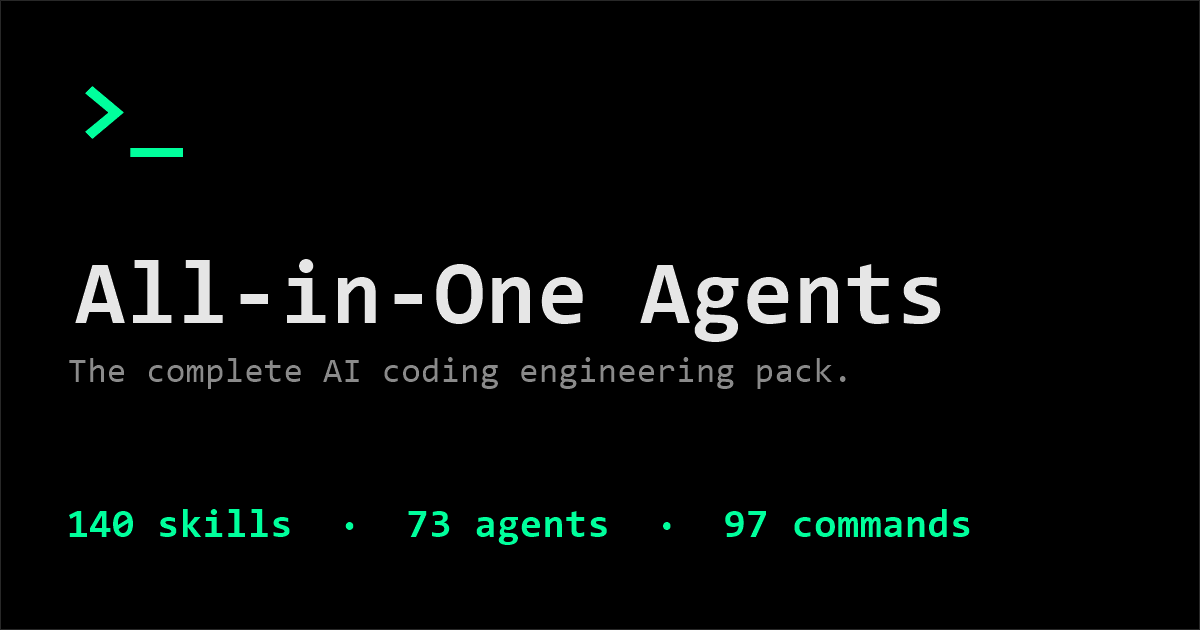
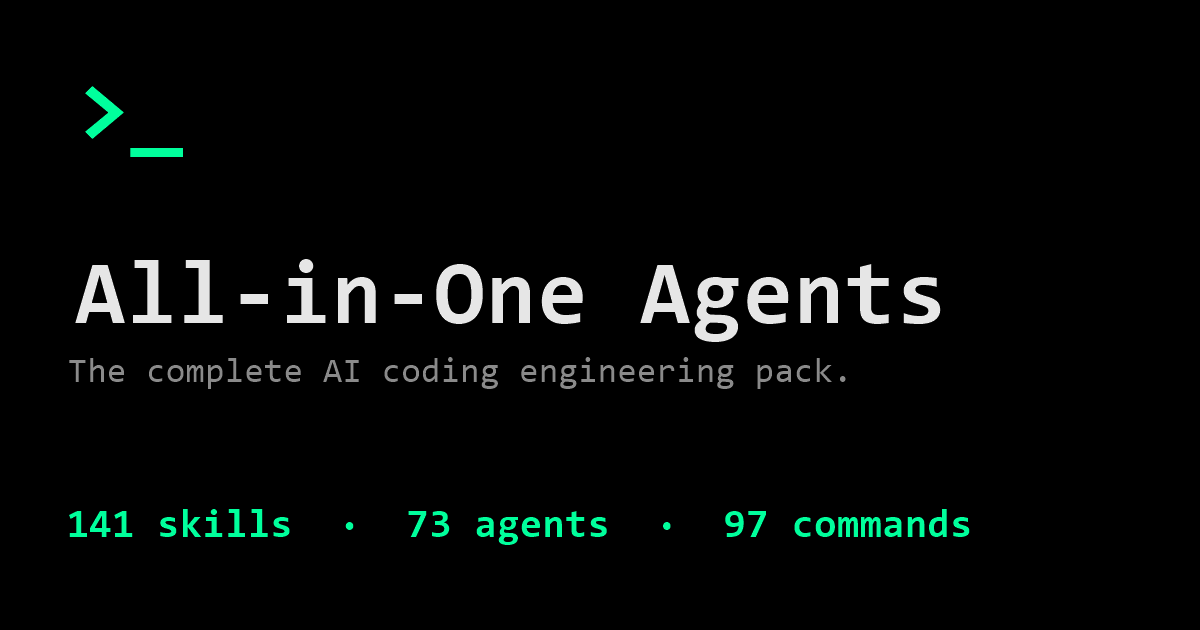
Add computer-use skill

Changed region(s): [[0.0, 0.9952, 1.0, 1.0], [0.9867, 0.0, 1.0, 0.0302], [0.0925, 0.8143, 0.1233, 0.8444]]

diff --git a/docs/index.html b/docs/index.html
@@ -4,11 +4,11 @@
   <meta charset="UTF-8">
   <meta name="viewport" content="width=device-width, initial-scale=1.0">
   <title>All-in-One Agents — The complete AI coding engineering pack</title>
-  <meta name="description" content="140 skills, 73 agents, 97 commands. From idea to production with UNDERSTAND→PLAN→EXECUTE→VERIFY→DELIVER. Open source on GitHub.">
+  <meta name="description" content="141 skills, 73 agents, 97 commands. From idea to production with UNDERSTAND→PLAN→EXECUTE→VERIFY→DELIVER. Open source on GitHub.">
 
   <!-- Open Graph -->
   <meta property="og:title" content="All-in-One Agents — The complete AI coding engineering pack">
-  <meta property="og:description" content="140 skills, 73 agents, 97 commands. One engineering loop: UNDERSTAND→PLAN→EXECUTE→VERIFY→DELIVER.">
+  <meta property="og:description" content="141 skills, 73 agents, 97 commands. One engineering loop: UNDERSTAND→PLAN→EXECUTE→VERIFY→DELIVER.">
   <meta property="og:image" content="https://ibrorg.github.io/all-in-one-agents/assets/og-image.png">
   <meta property="og:url" content="https://ibrorg.github.io/all-in-one-agents/">
   <meta property="og:type" content="website">
@@ -16,7 +16,7 @@
   <!-- Twitter Card -->
   <meta name="twitter:card" content="summary_large_image">
   <meta name="twitter:title" content="All-in-One Agents — The complete AI coding engineering pack">
-  <meta name="twitter:description" content="140 skills, 73 agents, 97 commands. One engineering loop: UNDERSTAND→PLAN→EXECUTE→VERIFY→DELIVER.">
+  <meta name="twitter:description" content="141 skills, 73 agents, 97 commands. One engineering loop: UNDERSTAND→PLAN→EXECUTE→VERIFY→DELIVER.">
   <meta name="twitter:image" content="https://ibrorg.github.io/all-in-one-agents/assets/og-image.png">
 
   <link rel="icon" type="image/svg+xml" href="assets/favicon.svg">
@@ -41,7 +41,7 @@
     "@context": "https://schema.org",
     "@type": "SoftwareApplication",
     "name": "All-in-One Agents",
-    "description": "The complete AI coding engineering pack: 140 skills, 73 agents, 97 commands, and an engineering loop from UNDERSTAND to DELIVER.",
+    "description": "The complete AI coding engineering pack: 141 skills, 73 agents, 97 commands, and an engineering loop from UNDERSTAND to DELIVER.",
     "operatingSystem": "Cross-platform",
     "applicationCategory": "DeveloperApplication",
     "url": "https://github.com/ibrorg/all-in-one-agents",
@@ -119,7 +119,7 @@
         <p class="hero-pill mono"><span class="pulse-dot" aria-hidden="true"></span> v1.6.0 · latest release</p>
         <p class="hero-eyebrow mono" id="hero-eyebrow"><span class="accent">$</span> open-source · MIT · zero install friction</p>
         <h1>The complete AI coding engineering pack.<span class="blink accent">_</span></h1>
-        <p class="hero-sub">From idea to production, from legacy rescue to cost control — 140 skills, 73 agents, 97 commands, one engineering loop.</p>
+        <p class="hero-sub">From idea to production, from legacy rescue to cost control — 141 skills, 73 agents, 97 commands, one engineering loop.</p>
         <div class="hero-ctas">
           <a class="btn btn-primary mono" href="https://github.com/ibrorg/all-in-one-agents" target="_blank" rel="noopener">View on GitHub</a>
           <a class="btn btn-secondary mono" href="#install">Install</a>
@@ -138,12 +138,12 @@
 <span class="prompt">$ </span>cd all-in-one-agents
 <span class="prompt">$ </span>./install.sh claude --dry-run   <span class="comment"># preview</span>
 <span class="prompt">$ </span>./install.sh claude             <span class="comment"># install</span></code></pre>
-        <div class="terminal-status mono" aria-hidden="true"><span class="accent">✓</span> 140 skills&nbsp;&nbsp;<span class="accent">✓</span> 73 agents&nbsp;&nbsp;<span class="accent">✓</span> 97 commands</div>
+        <div class="terminal-status mono" aria-hidden="true"><span class="accent">✓</span> 141 skills&nbsp;&nbsp;<span class="accent">✓</span> 73 agents&nbsp;&nbsp;<span class="accent">✓</span> 97 commands</div>
       </div>
 
       <!-- UPDATE: re-count skills/agents/commands from INDEX.md on each release -->
       <div class="stats-strip" role="list">
-        <div class="stat" role="listitem"><span class="stat-num mono">140</span><span class="stat-label mono">skills</span></div>
+        <div class="stat" role="listitem"><span class="stat-num mono">141</span><span class="stat-label mono">skills</span></div>
         <div class="stat" role="listitem"><span class="stat-num mono">73</span><span class="stat-label mono">agents</span></div>
         <div class="stat" role="listitem"><span class="stat-num mono">97</span><span class="stat-label mono">commands</span></div>
         <div class="stat" role="listitem"><span class="stat-num mono">1</span><span class="stat-label mono">loop</span></div>
@@ -153,8 +153,8 @@
     <!-- skills marquee (decorative) -->
     <div class="ticker" aria-hidden="true">
       <div class="ticker-track mono">
-        <span>codebase-context</span><i>·</i><span>multi-file-editing</span><i>·</i><span>ast-aware-refactoring</span><i>·</i><span>api-migration</span><i>·</i><span>dependency-upgrades</span><i>·</i><span>performance-profiling</span><i>·</i><span>test-design</span><i>·</i><span>release-engineering</span><i>·</i><span>docs-accuracy</span><i>·</i><span>thinking-first-principles</span><i>·</i><span>wayfinder</span><i>·</i><span>code-review</span><i>·</i><span>receiving-code-review</span><i>·</i><span>agent-evaluation</span><i>·</i><span>checkpoint-recovery</span><i>·</i>
-        <span>codebase-context</span><i>·</i><span>multi-file-editing</span><i>·</i><span>ast-aware-refactoring</span><i>·</i><span>api-migration</span><i>·</i><span>dependency-upgrades</span><i>·</i><span>performance-profiling</span><i>·</i><span>test-design</span><i>·</i><span>release-engineering</span><i>·</i><span>docs-accuracy</span><i>·</i><span>thinking-first-principles</span><i>·</i><span>wayfinder</span><i>·</i><span>code-review</span><i>·</i><span>receiving-code-review</span><i>·</i><span>agent-evaluation</span><i>·</i><span>checkpoint-recovery</span><i>·</i>
+        <span>codebase-context</span><i>·</i><span>multi-file-editing</span><i>·</i><span>ast-aware-refactoring</span><i>·</i><span>api-migration</span><i>·</i><span>dependency-upgrades</span><i>·</i><span>performance-profiling</span><i>·</i><span>test-design</span><i>·</i><span>release-engineering</span><i>·</i><span>docs-accuracy</span><i>·</i><span>thinking-first-principles</span><i>·</i><span>wayfinder</span><i>·</i><span>code-review</span><i>·</i><span>receiving-code-review</span><i>·</i><span>agent-evaluation</span><i>·</i><span>checkpoint-recovery</span><i>·</i><span>computer-use</span><i>·</i>
+        <span>codebase-context</span><i>·</i><span>multi-file-editing</span><i>·</i><span>ast-aware-refactoring</span><i>·</i><span>api-migration</span><i>·</i><span>dependency-upgrades</span><i>·</i><span>performance-profiling</span><i>·</i><span>test-design</span><i>·</i><span>release-engineering</span><i>·</i><span>docs-accuracy</span><i>·</i><span>thinking-first-principles</span><i>·</i><span>wayfinder</span><i>·</i><span>code-review</span><i>·</i><span>receiving-code-review</span><i>·</i><span>agent-evaluation</span><i>·</i><span>checkpoint-recovery</span><i>·</i><span>computer-use</span><i>·</i>
       </div>
     </div>
 

diff --git a/skills/computer-use/scripts/desktop.py b/skills/computer-use/scripts/desktop.py
@@ -1,0 +1,94 @@
+#!/usr/bin/env python3
+"""desktop.py — real desktop control for hosts without built-in computer-use.
+
+Screenshots, mouse, keyboard and scroll from one dependency-light helper.
+Requires: pip install pyautogui pillow
+
+Safety: pyautogui FAILSAFE stays on — slam the mouse into a screen corner to
+abort any running action. Coordinates are absolute screen pixels.
+
+Usage:
+  python desktop.py size
+  python desktop.py screenshot [out.png]
+  python desktop.py move <x> <y>
+  python desktop.py click <x> <y> [--button left|right|middle] [--clicks N]
+  python desktop.py drag <x1> <y1> <x2> <y2> [--seconds 0.4]
+  python desktop.py type <text...>
+  python desktop.py key <name>           # enter, tab, esc, backspace, ctrl+s ...
+  python desktop.py scroll <clicks>      # positive=up, negative=down
+  python desktop.py position
+"""
+import argparse
+import sys
+
+
+def _gui():
+    try:
+        import pyautogui as pag
+    except ImportError:
+        sys.exit("missing dependency: pip install pyautogui pillow")
+    pag.FAILSAFE = True
+    return pag
+
+
+def main(argv=None):
+    p = argparse.ArgumentParser(prog="desktop.py", description=__doc__,
+                                formatter_class=argparse.RawDescriptionHelpFormatter)
+    sub = p.add_subparsers(dest="cmd", required=True)
+
+    sub.add_parser("size")
+    sh = sub.add_parser("screenshot")
+    sh.add_argument("out", nargs="?", default="screenshot.png")
+    mv = sub.add_parser("move")
+    mv.add_argument("x", type=int)
+    mv.add_argument("y", type=int)
+    ck = sub.add_parser("click")
+    ck.add_argument("x", type=int)
+    ck.add_argument("y", type=int)
+    ck.add_argument("--button", default="left", choices=["left", "right", "middle"])
+    ck.add_argument("--clicks", type=int, default=1)
+    dg = sub.add_parser("drag")
+    dg.add_argument("x1", type=int)
+    dg.add_argument("y1", type=int)
+    dg.add_argument("x2", type=int)
+    dg.add_argument("y2", type=int)
+    dg.add_argument("--seconds", type=float, default=0.4)
+    ty = sub.add_parser("type")
+    ty.add_argument("text", nargs="+")
+    ky = sub.add_parser("key")
+    ky.add_argument("name")
+    sc = sub.add_parser("scroll")
+    sc.add_argument("clicks", type=int)
+    sub.add_parser("position")
+
+    args = p.parse_args(argv)
+    pag = _gui()
+
+    if args.cmd == "size":
+        w, h = pag.size()
+        print(f"{w}x{h}")
+    elif args.cmd == "screenshot":
+        img = pag.screenshot()
+        img.save(args.out)
+        print(args.out)
+    elif args.cmd == "move":
+        pag.moveTo(args.x, args.y)
+    elif args.cmd == "click":
+        pag.click(args.x, args.y, clicks=args.clicks, button=args.button)
+    elif args.cmd == "drag":
+        pag.moveTo(args.x1, args.y1)
+        pag.dragTo(args.x2, args.y2, duration=args.seconds, button="left")
+    elif args.cmd == "type":
+        pag.typewrite(" ".join(args.text), interval=0.02)
+    elif args.cmd == "key":
+        parts = args.name.lower().split("+")
+        (pag.hotkey(*parts) if len(parts) > 1 else pag.press(parts[0]))
+    elif args.cmd == "scroll":
+        pag.scroll(args.clicks)
+    elif args.cmd == "position":
+        x, y = pag.position()
+        print(f"{x},{y}")
+
+
+if __name__ == "__main__":
+    main()

diff --git a/scripts/gen_routing.py b/scripts/gen_routing.py
@@ -55,6 +55,7 @@ CATS = {
         ("openhands-e2e-testing", "E2E testing (desktop app)"),
         ("verify-openhands", "Feature verification passes"),
         ("webapp-testing", "Playwright webapp testing"),
+        ("computer-use", "Native desktop app or OS UI"),
         ("web-artifacts-builder", "HTML artifacts"),
         ("story-lifecycle", "Story / epic / sprint lifecycle"),
         ("claude-api", "LLM API question"),

diff --git a/skills/computer-use/SKILL.md b/skills/computer-use/SKILL.md
@@ -1,0 +1,55 @@
+---
+name: computer-use
+description: Read or operate the UI of native desktop applications and the OS itself. Accessibility-first action ladder, observe-act-observe loop, exact app identifiers, main agent only. For web pages, use a browser skill instead.
+---
+
+# Computer Use
+
+Operate native apps on the user's own machine: read their UI, click, type, scroll, drag, and verify the result. This is the desktop counterpart to browser automation — anything inside a web page belongs to a browser skill, not here.
+
+## Choose the right tool first
+
+- A dedicated connector, API, CLI or purpose-built skill beats driving pixels. Check for one before touching the UI.
+- Browser and web tasks go to browser automation, full stop.
+- Do not reach for OS scripting (AppleScript, JXA, System Events, PowerShell UI automation, shell hacks) unless the user explicitly names that technology.
+- **Main agent only.** Never delegate desktop operation to a subagent; UI state, focus and coordinates do not transfer.
+
+## Bundled helper
+
+When the host has no built-in desktop automation, `scripts/desktop.py` is the real fallback: screenshots, click, drag, type, key and scroll in one dependency-light Python file (`pip install pyautogui pillow`).
+
+```bash
+python skills/computer-use/scripts/desktop.py screenshot shot.png   # observe
+python skills/computer-use/scripts/desktop.py click 640 360         # act
+python skills/computer-use/scripts/desktop.py screenshot after.png  # verify
+python skills/computer-use/scripts/desktop.py type "hello"
+python skills/computer-use/scripts/desktop.py key ctrl+s
+python skills/computer-use/scripts/desktop.py scroll -5
+```
+
+Fail-safe stays armed: slam the pointer into a screen corner to abort. Coordinates are absolute screen pixels — take them only from a screenshot you just captured, never from memory.
+
+## The action ladder
+
+Take the highest rung that works; never drop lower for convenience.
+
+1. **Semantic / accessibility path.** Observe the app's element tree, find the target by role, name, title or value, act on it by its identifier. Precise, works on background windows, does not steal the user's focus.
+2. **Direct value setting.** For settable fields, set the value rather than simulating typing. Use paste only when the element is not settable or the content is rich text.
+3. **Keyboard input.** Only when no element expresses the operation, or the user asked for keyboard interaction. A shortcut being shorter is not a reason to skip an available element action.
+4. **Coordinates.** Last resort, for canvas, games and custom-drawn content the semantic tree cannot see. Choose coordinates only from the *current* screenshot raster, integers inside its bounds — never reuse numbers from earlier text, element bounds or window frames.
+
+Do not run two paths for the same action. Pick one, verify, then decide.
+
+## The loop
+
+Observe once, act, then observe again before the next step.
+
+- **Success means the API accepted your action, not that the app acted.** A click can land on a stale element; typing can be accepted and change nothing. Re-observe to confirm the intended state actually appeared.
+- **Bind apps by their exact display name.** Copy the name character-for-character — do not translate, localize, normalize, shorten or drop a suffix. A rewritten name resolves to a different app or none at all. If the exact string fails, list running apps once and pick the matching identifier.
+- **Batch related actions, close with one observation.** Element identifiers stay valid between actions until the next observation renumbers the tree. Take identifiers only from the newest observation; a vanished element fails closed.
+- **Diffs, not dumps.** Observations may return only what changed since the last tree in this session; unchanged rows keep their identifiers. If an observation reports no change, do not repeat it without an intervening action.
+- **Watch the window scope.** Observations resolve the front window each time, so a modal that just opened becomes the captured window — when the tree reads like the wrong part of the app, look for a dialog, handle or dismiss it, then re-observe. A missing element is not proof your action worked; it may be proof you are looking at the wrong window.
+
+## Boundaries
+
+Desktop operation is powerful and literal: it clicks what is actually on screen, in the user's session, with the user's permissions. Confirm destructive dialogs instead of autopiloting through them, stay inside the app the user named, and stop when the task's acceptance check is visible on screen — the observation is your evidence.

diff --git a/README.md b/README.md
@@ -8,7 +8,7 @@
 
 [![Tests](https://github.com/ibrorg/all-in-one-agents/actions/workflows/validate.yml/badge.svg)](https://github.com/ibrorg/all-in-one-agents/actions/workflows/validate.yml)
 [![Release](https://img.shields.io/github/v/release/ibrorg/all-in-one-agents?style=flat-square&color=8b5cf6)](https://github.com/ibrorg/all-in-one-agents/releases)
-[![Skills](https://img.shields.io/badge/skills-140-2563eb?style=flat-square)](INDEX.md)
+[![Skills](https://img.shields.io/badge/skills-141-2563eb?style=flat-square)](INDEX.md)
 [![Agents](https://img.shields.io/badge/agents-73-0ea5e9?style=flat-square)](INDEX.md)
 [![Commands](https://img.shields.io/badge/commands-97-64748b?style=flat-square)](INDEX.md)
 [![License](https://img.shields.io/badge/license-MIT-16a34a?style=flat-square)](LICENSE)
@@ -22,7 +22,7 @@
 
 ## Overview
 
-A practical toolkit for AI-assisted engineering: 140 skills, 73 agent definitions,
+A practical toolkit for AI-assisted engineering: 141 skills, 73 agent definitions,
 97 command definitions, executable workflow helpers and an optional Python runtime.
 Start with a bounded task, load only relevant skills, and verify the result.
 
@@ -158,7 +158,7 @@ Concrete multi-edit commands and migration scenarios: [coding workflow guide](do
 
 | Path | Contents |
 |---|---|
-| [`skills/`](skills/) | 140 skills, each with a `SKILL.md` entrypoint |
+| [`skills/`](skills/) | 141 skills, each with a `SKILL.md` entrypoint |
 | [`agents/`](agents/) | 73 agent definitions |
 | [`commands/`](commands/) | 97 slash commands |
 | [`hooks/`](hooks/) | Executable SessionStart hook and written guidance |

diff --git a/INDEX.md b/INDEX.md
@@ -2,7 +2,7 @@
 
 Generated by `python3 scripts/sync_catalog.py`. Do not edit by hand.
 
-## Skills (140)
+## Skills (141)
 
 ### Core & Orchestration (16)
 
@@ -25,7 +25,7 @@ Generated by `python3 scripts/sync_catalog.py`. Do not edit by hand.
 | [pack-kernel](skills/pack-kernel/SKILL.md) | Deep phase-loop guidance |
 | [ck](skills/ck/SKILL.md) | Session state must survive |
 
-### Engineering & DevOps (38)
+### Engineering & DevOps (39)
 
 | Skill | When to load |
 |---|---|
@@ -54,6 +54,7 @@ Generated by `python3 scripts/sync_catalog.py`. Do not edit by hand.
 | [openhands-e2e-testing](skills/openhands-e2e-testing/SKILL.md) | E2E testing (desktop app) |
 | [verify-openhands](skills/verify-openhands/SKILL.md) | Feature verification passes |
 | [webapp-testing](skills/webapp-testing/SKILL.md) | Playwright webapp testing |
+| [computer-use](skills/computer-use/SKILL.md) | Native desktop app or OS UI |
 | [web-artifacts-builder](skills/web-artifacts-builder/SKILL.md) | HTML artifacts |
 | [story-lifecycle](skills/story-lifecycle/SKILL.md) | Story / epic / sprint lifecycle |
 | [claude-api](skills/claude-api/SKILL.md) | LLM API question |

diff --git a/skills/using-all-in-one-agents/MASTER_PROMPT.md b/skills/using-all-in-one-agents/MASTER_PROMPT.md
@@ -200,6 +200,7 @@ Then run **`agent-self-evaluation`** — rate your own output on 5 axes: accurac
 | E2E testing (desktop app) | `openhands-e2e-testing` |
 | Feature verification passes | `verify-openhands` |
 | Playwright webapp testing | `webapp-testing` |
+| Native desktop app or OS UI | `computer-use` |
 | HTML artifacts | `web-artifacts-builder` |
 | Story / epic / sprint lifecycle | `story-lifecycle` |
 | LLM API question | `claude-api` |

diff --git a/CHANGELOG.md b/CHANGELOG.md
@@ -2,6 +2,10 @@
 
 ## Unreleased
 
+- computer-use skill: native desktop and OS UI automation with an
+  accessibility-first action ladder and observe-act-observe verification.
+  Inventory is now 141 skills, 73 agents, 97 commands.
+
 ## [1.6.0] - 2026-10-22
 
 ### Added

diff --git a/docs/MEASURED-INVENTORY.md b/docs/MEASURED-INVENTORY.md
@@ -6,7 +6,7 @@ No current competitor comparison is asserted without a pinned audit.
 
 | Dimension | all-in-one-agents |
 |---|---:|
-| Skills | 140 |
+| Skills | 141 |
 | Agents | 73 |
 | Slash commands | 97 |
 | Test files | 29 |
